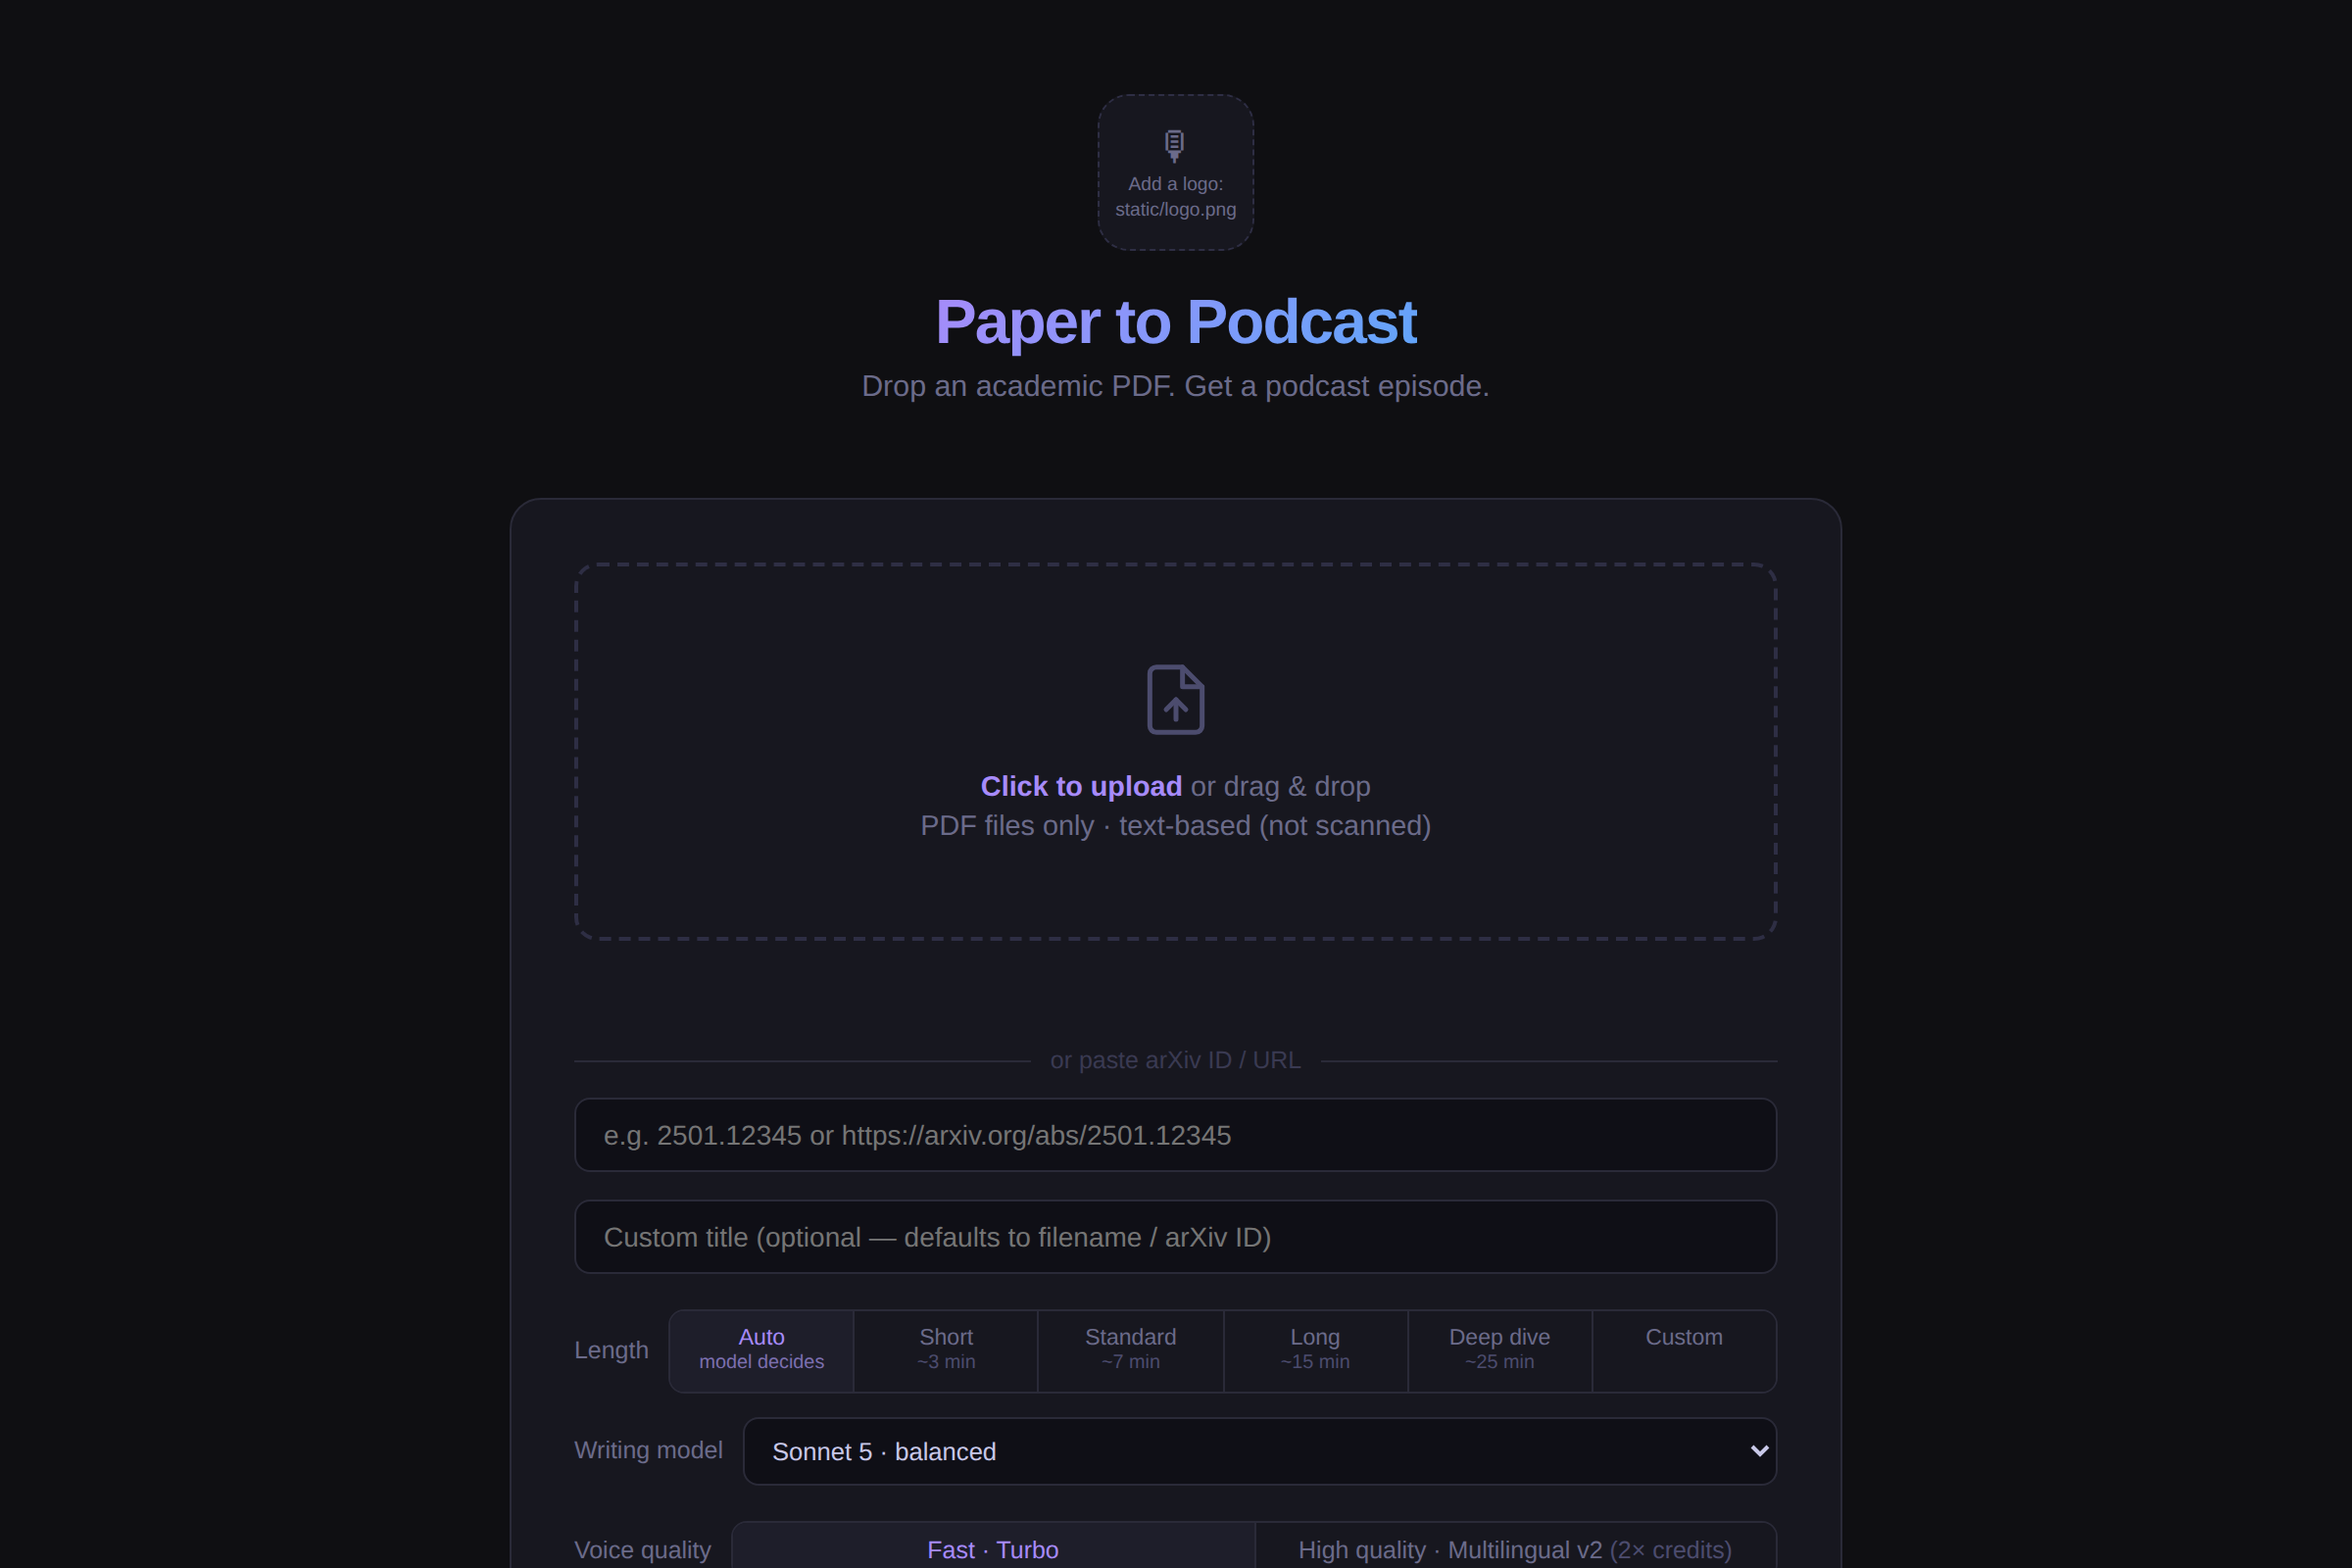
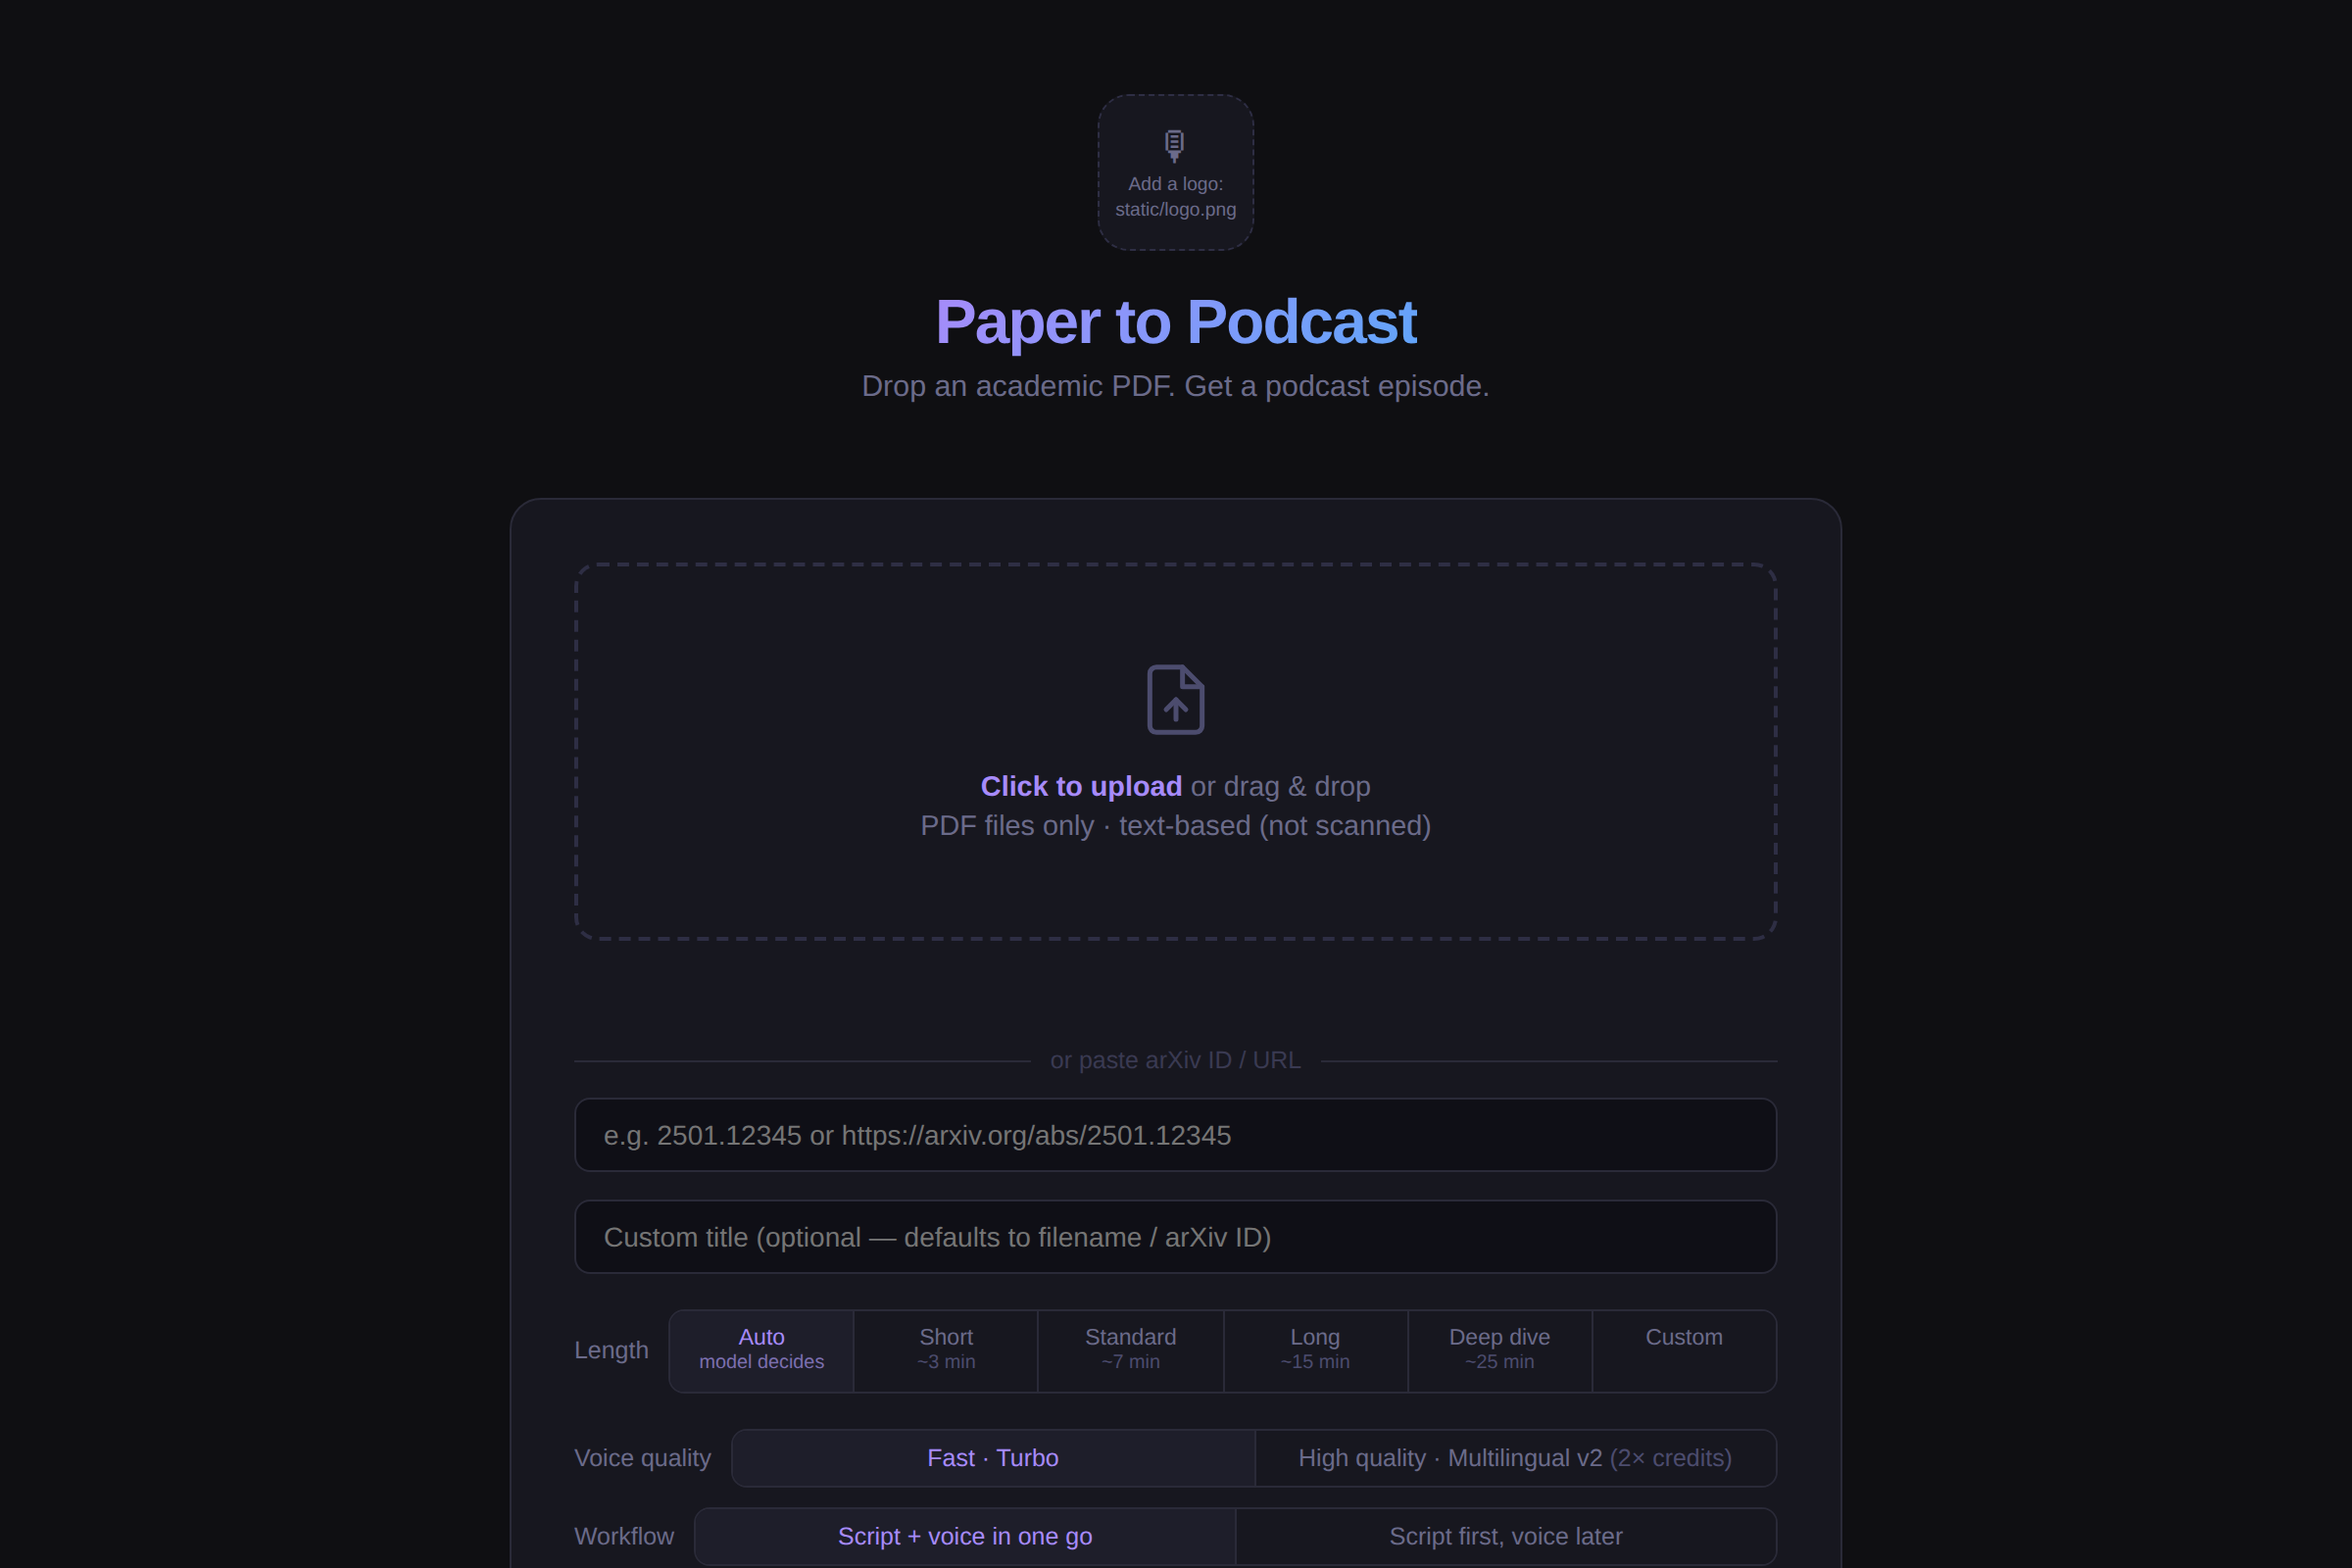
Make Claude models configurable; add startup key warning; safer defaults
Models now come from .env (TEXT_MODEL, FAST_MODEL, optional TEXT_MODEL_OPTIONS for a per-episode dropdown) instead of a hard-coded list. Warn at startup if API keys are missing. Flask debug is off by default and the server binds to 127.0.0.1. Whisper moves to requirements-optional.txt. Refresh the upload screenshot and use a generic example slug.

diff --git a/templates/index.html b/templates/index.html
@@ -365,18 +365,21 @@
       <span style="font-size:0.72rem; color:#4c4c6e;">1–40 min · longer works for books too</span>
     </div>
 
-    <!-- Writing model (Claude) -->
+    <!-- Writing model (Claude): dropdown only appears if TEXT_MODEL_OPTIONS lists several -->
+    {% if text_models|length > 1 %}
     <div style="margin-top:12px; display:flex; align-items:center; gap:10px;">
       <span style="font-size:0.78rem; color:#6b6b8a; white-space:nowrap;">Writing model</span>
       <select id="text-model-input" style="
         flex:1; padding:8px 10px; background:#0f0f16; border:1px solid #2a2a38;
         border-radius:8px; color:#c8c8e8; font-size:0.8rem; outline:none; cursor:pointer;">
-        <option value="claude-opus-4-8">Opus 4.8 · highest quality</option>
-        <option value="claude-sonnet-5" selected>Sonnet 5 · balanced</option>
-        <option value="claude-haiku-4-5-20251001">Haiku 4.5 · fastest &amp; cheapest</option>
-        <option value="claude-fable-5">Fable 5 · creative</option>
+        {% for m in text_models %}
+        <option value="{{ m }}"{% if m == default_model %} selected{% endif %}>{{ m }}</option>
+        {% endfor %}
       </select>
     </div>
+    {% else %}
+    <input type="hidden" id="text-model-input" value="{{ default_model }}" />
+    {% endif %}
 
     <!-- Voice model toggle -->
     <div style="margin-top:18px; display:flex; align-items:center; gap:10px;">

diff --git a/app.py b/app.py
@@ -1,5 +1,6 @@
 import os
 import re
+import sys
 import json
 import datetime
 import urllib.request
@@ -34,6 +35,11 @@ EPISODES_FILE = Path("static/episodes.json")
 
 ANTHROPIC_API_KEY = os.getenv("ANTHROPIC_API_KEY")
 ELEVENLABS_API_KEY = os.getenv("ELEVENLABS_API_KEY")
+
+for _name, _val in (("ANTHROPIC_API_KEY", ANTHROPIC_API_KEY), ("ELEVENLABS_API_KEY", ELEVENLABS_API_KEY)):
+    if not _val:
+        print(f"WARNING: {_name} is not set. Copy .env.example to .env and add it, "
+              "or episode generation will fail.", file=sys.stderr)
 ELEVENLABS_VOICE_ID = os.getenv("ELEVENLABS_VOICE_ID", "")
 OBSIDIAN_VAULT_PATH = os.getenv("OBSIDIAN_VAULT_PATH", "")
 
@@ -52,15 +58,17 @@ R2_PUBLIC_URL     = os.getenv("R2_PUBLIC_URL", "").rstrip("/")  # e.g. https://p
 R2_ENABLED = all([R2_ACCOUNT_ID, R2_ACCESS_KEY_ID, R2_SECRET_KEY, R2_PUBLIC_URL])
 
 # ── Script generation: models and length ─────────────────────────────────────
-# Current Claude text models the writing step can use. Keep in sync with the
-# dropdown in templates/index.html. Add or remove entries here freely.
-TEXT_MODELS = [
-    "claude-opus-4-8",             # highest quality / deepest reasoning
-    "claude-sonnet-5",             # balanced (default)
-    "claude-haiku-4-5-20251001",   # fastest / cheapest
-    "claude-fable-5",              # creative
-]
-DEFAULT_TEXT_MODEL = os.getenv("TEXT_MODEL", "claude-sonnet-5")
+# Claude models are configured in .env so the app doesn't go stale as model
+# names change. Use any model ID your Anthropic account can access.
+#   TEXT_MODEL          writing model (default below)
+#   FAST_MODEL          cheaper model for metadata and show notes
+#   TEXT_MODEL_OPTIONS  optional comma-separated list; if set, the upload page
+#                       shows a dropdown so you can pick a model per episode
+DEFAULT_TEXT_MODEL = os.getenv("TEXT_MODEL", "").strip() or "claude-sonnet-5"
+FAST_MODEL = os.getenv("FAST_MODEL", "").strip() or "claude-haiku-4-5-20251001"
+TEXT_MODELS = [m.strip() for m in os.getenv("TEXT_MODEL_OPTIONS", "").split(",") if m.strip()]
+if DEFAULT_TEXT_MODEL not in TEXT_MODELS:
+    TEXT_MODELS.insert(0, DEFAULT_TEXT_MODEL)
 
 # Length presets → target spoken word count. ~150 words per minute.
 WORDS_PER_MINUTE = 150
@@ -385,7 +393,7 @@ def generate_podcast_script(paper_text: str, notes: str = "",
 
     # Pass 2: voice edit — preserve all claims, improve speakability (Haiku: editing not reasoning)
     final = client.messages.create(
-        model="claude-haiku-4-5-20251001",
+        model=FAST_MODEL,
         max_tokens=int(budget_words * 1.8) + 1000,
         messages=[
             {
@@ -405,7 +413,7 @@ def extract_metadata(paper_text: str) -> dict:
     truncated = " ".join(paper_text.split()[:3000])
     try:
         message = client.messages.create(
-            model="claude-haiku-4-5-20251001",
+            model=FAST_MODEL,
             max_tokens=300,
             messages=[
                 {
@@ -428,7 +436,7 @@ def generate_summary(paper_text: str, title: str) -> str:
     client = anthropic.Anthropic(api_key=ANTHROPIC_API_KEY)
     truncated = smart_truncate(paper_text, 8000)
     message = client.messages.create(
-        model="claude-sonnet-5",
+        model=DEFAULT_TEXT_MODEL,
         max_tokens=900,
         messages=[
             {
@@ -453,7 +461,7 @@ def generate_show_notes(paper_text: str, title: str, authors: list = None) -> st
         else:
             byline = f" by {authors[0]} and colleagues"
     message = client.messages.create(
-        model="claude-haiku-4-5-20251001",
+        model=FAST_MODEL,
         max_tokens=300,
         messages=[{
             "role": "user",
@@ -700,7 +708,7 @@ tags:
 
 @app.route("/")
 def index():
-    return render_template("index.html")
+    return render_template("index.html", text_models=TEXT_MODELS, default_model=DEFAULT_TEXT_MODEL)
 
 
 @app.route("/library")
@@ -1097,4 +1105,6 @@ def regenerate_audio(slug):
 
 
 if __name__ == "__main__":
-    app.run(debug=True, port=5050)
+    # Debug mode is off by default: it exposes an interactive debugger, and this
+    # app has no login. Set FLASK_DEBUG=1 in .env for auto-reload while developing.
+    app.run(host="127.0.0.1", port=5050, debug=os.getenv("FLASK_DEBUG") == "1")

diff --git a/transcribe_episode.py b/transcribe_episode.py
@@ -2,11 +2,11 @@
 Transcribe an existing episode MP3 and patch it into episodes.json.
 
 Usage:
-    pip3 install openai-whisper
+    pip3 install -r requirements-optional.txt
     python3 transcribe_episode.py <slug>
 
 Example:
-    python3 transcribe_episode.py castells-urban-renewal-and-social-conflict-in-paris
+    python3 transcribe_episode.py attention-is-all-you-need
 """
 
 import sys

diff --git a/README.md b/README.md
@@ -138,14 +138,16 @@ By default, Paper to Podcast uses the first voice in your ElevenLabs account. To
 Two controls on the upload page shape each episode:
 
 - **Length** — **Auto** (the default) lets the model size the episode to the paper: a slight paper gets a short episode, a dense one gets a longer treatment. Or force a preset (Short ~3 min, Standard ~7 min, Long ~15 min, Deep dive ~25 min) or **Custom** with a target in minutes (1–40). Longer targets pull in more of the source text, so this also suits book-length inputs.
-- **Writing model** — pick which Claude model writes the script (Opus for depth, Sonnet for balance, Haiku for speed/cost, Fable for a more creative voice). The default is `claude-sonnet-5`, overridable with `TEXT_MODEL` in `.env`.
+- **Writing model** — set by `TEXT_MODEL` in `.env` (any Claude model ID your Anthropic account can use). To choose a model per episode, list several in `TEXT_MODEL_OPTIONS` (comma-separated) and a dropdown appears on the upload page. `FAST_MODEL` sets the cheaper model used for metadata and show notes. Model names change over time, so nothing is hard-coded beyond the defaults.
 
 ---
 
 ## Notes
 
 - **Text-based PDFs only.** Scanned or image-based PDFs won't work — no OCR. arXiv papers work perfectly.
-- **Cost.** A typical paper costs roughly $0.15–0.50 total across Claude and ElevenLabs. Claude Sonnet does the writing (two passes); Haiku handles cheaper tasks like metadata and show notes.
+- **Cost.** A typical paper costs roughly $0.15–0.50 total across Claude and ElevenLabs. The writing model does two passes; the fast model handles cheaper tasks like metadata and show notes.
+- **Local use only.** The server has no login and binds to `127.0.0.1`. Don't expose port 5050 to a network, and leave `FLASK_DEBUG` unset unless you're developing (debug mode adds an interactive debugger).
+- **Optional: transcribing old episodes.** `transcribe_episode.py` needs Whisper: `pip install -r requirements-optional.txt`.
 - **Episode library.** Browse all episodes at [http://localhost:5050/library](http://localhost:5050/library).
 
 ## Project structure
@@ -163,6 +165,7 @@ paper-to-podcast/
 ├── upload_logo.py              # Utility: upload podcast artwork to R2
 ├── script-prompt-evaluation.md # Notes on the script-generation prompt
 ├── requirements.txt
+├── requirements-optional.txt   # Whisper, for transcribe_episode.py only
 ├── .env.example
 └── LICENSE
 ```

diff --git a/CLAUDE.md b/CLAUDE.md
@@ -39,4 +39,4 @@ The podcast logo is not committed. Drop your own square PNG at `static/logo.png`
 
 ## Working on the code
 
-The main file to edit is `app.py`. Templates are in `templates/`. Test changes by restarting the server (`Ctrl+C` then `python3 app.py`).
+The main file to edit is `app.py`. Templates are in `templates/`. Test changes by restarting the server (`Ctrl+C` then `python3 app.py`), or set `FLASK_DEBUG=1` in `.env` for auto-reload.
